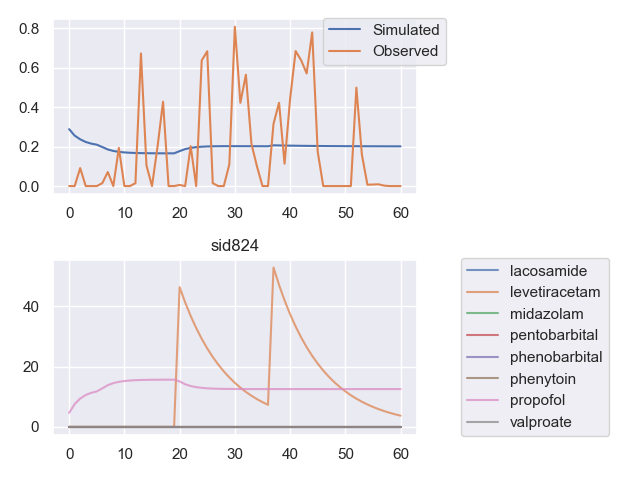
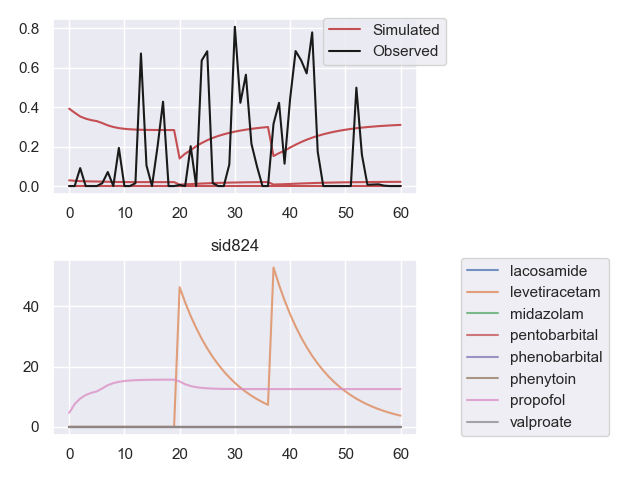
kind of finish pymc3 implementation

diff --git a/aim1/simulator/pkpd_simulator_probablistic_model.py b/aim1/simulator/pkpd_simulator_probablistic_model.py
@@ -104,7 +104,7 @@ class IICSimulatorCarryForward(object):
         assert len(D)==len(C)
         Ebaseline = []
         for i in range(len(E)):
-            ee = np.r_[E[i][:self.carry_start_step], np.repeat(E[i][[self.carry_start_step-1]], len(E[i])-self.carry_start_step, axis=0)]
+            ee = np.r_[E[i][:self.carry_start_step], np.repeat(E[i][[self.carry_start_step-1]], len(D[i])-self.carry_start_step, axis=0)]
             Ebaseline.append(ee)
         return Ebaseline
 
@@ -118,7 +118,7 @@ def pharmacodynamics(a0,a1,a2,betaA,b0,b,betaB,D,C, return_P=False):
         log_Pts.append([])
         log_1_Pts.append([])
         logit_Pt = []
-        for t in range(D[i].shape[1]):
+        for t in range(len(D[i])):
             if t==0:
                 logit_Pt_1 = 0
                 logit_Pt_2 = 0
@@ -129,7 +129,7 @@ def pharmacodynamics(a0,a1,a2,betaA,b0,b,betaB,D,C, return_P=False):
                 logit_Pt_1 = logit_Pt[t-1]
                 logit_Pt_2 = logit_Pt[t-2]
             At = a0 + a1*logit_Pt_1 + a2*logit_Pt_2 + np.dot(betaA, C[i])
-            Bt = b0 + np.dot(b, D[i][:,t]) + np.dot(betaB, C[i])
+            Bt = b0 + np.dot(b, D[i][t]) + np.dot(betaB, C[i])
             log_Pt = logsigmoid_numpy(At) + logsigmoid_numpy(-Bt)
             log_1_Pt = log1mexp_numpy(log_Pt)
             logit_Pt.append(log_Pt - log_1_Pt)
@@ -198,63 +198,13 @@ class IICSimulatorBayesian(object):
     
     def fit(self, E, D, C):
         assert len(E)==len(D)==len(C)
-        N = len(E)
-        ND = D[0].shape[1]
-        NC = C.shape[1]
         
         # pad to have the same length
         assert [len(x) for x in E]==[len(x) for x in D]
         Ts = np.array([len(x) for x in D])
         self.maxlen = max(Ts)
-        #E2 = np.array([np.r_[E[i], np.zeros(self.maxlen-len(E[i]))+np.nan] for i in range(len(E))])
+        E2 = np.array([np.r_[E[i], np.zeros(self.maxlen-len(E[i]))+np.nan] for i in range(len(E))])
         D2 = np.array([np.r_[D[i], np.zeros((self.maxlen-len(D[i]), D[i].shape[1]))+np.nan] for i in range(len(D))])
-        
-        self.stan_model = """
-data {
-    int<lower=0> N;
-    int<lower=0> T;
-    int<lower=0> ND;
-    int<lower=0> NC;
-    matrix[N,T] E;
-    matrix[T,ND] D[N]
-}
-
-parameters {
-    real a0;
-    real a1;
-    real a2;
-    vector[NC] betaA;
-    
-    real b0;
-    vector[ND] b;
-    vector[NC] betaB;
-    
-    real theta_u;
-    real theta_l;
-    real p1_s;
-    real p2_s;
-}
-
-transformed parameters {
-    vector[T] p;
-    vector[T] A;
-    vector[T] B;
-    p[1] = p1_s;
-    p[2] = p2_s;
-    for (t in 3:T) {
-        A[t] = a0 + a1*p[t-1] + a2*p[t-2] + betaA;
-        B[t] = b0 + dot_product(b,col(D,t));
-        p[t] = (1/(1+exp(-1*A[t])))*(1 - (1/(1+exp(-1*B[t]))));
-    }
-}
-
-model {
-    p1_s ~ uniform(theta_l,theta_u);
-    p2_s ~ uniform(theta_l,theta_u);
-    for (t in 1:T) {
-        E[t] ~ bernoulli(p[t]);
-    }   
-}"""
         
         #theano.config.mode = 'FAST_COMPILE'
         #theano.config.allow_gc = False
@@ -262,11 +212,16 @@ model {
         np.random.seed(self.random_state)
         random_seed = [np.random.randint(low=0,high=100000) for _ in range(self.n_jobs)]
         
+        self.E_shared = theano.shared(E2)
         self.D_shared = theano.shared(D2)
         self.Ts_shared = theano.shared(Ts)
         self.C_shared = theano.shared(C)
         with pm.Model() as self.model:
             # define paramters
+            N = len(self.E_shared.get_value())
+            ND = self.D_shared.get_value().shape[-1]
+            NC = self.C_shared.get_value().shape[-1]
+            
             a0 = pm.Normal('a0', mu=0, sigma=1)
             a1 = pm.HalfNormal('a1', sigma=1)
             a2 = pm.HalfNormal('a2', sigma=1)
@@ -278,10 +233,12 @@ model {
             
             # forward
             Ep = []
+            Eobs = []
             #log_Pts = []
             #log_1_Pts = []
             for i in range(N):
                 Ep.append([])
+                Eobs.append([])
                 #log_Pts.append([])
                 #log_1_Pts.append([])
                 logit_Pt = []
@@ -301,28 +258,40 @@ model {
                     log_1_Pt = log1mexp_theano(log_Pt)
                     logit_Pt.append(log_Pt - log_1_Pt)
                     Ep[i].append(tt.exp(log_Pt))
+                    Eobs[i].append(self.E_shared[i][t])
                     #log_Pts[i].append(log_Pt)
                     #log_1_Pts[i].append(log_1_Pt)
                   
             # generate sample weights which is inverse proportional to T
-            weights = np.concatenate([[1./Ts[i]]*Ts[i] for i in range(len(Ts))])
+            Ts = self.Ts_shared.get_value()
+            weights = tt.concatenate([[1./Ts[i]]*Ts[i] for i in range(len(Ts))])
             weights = weights/weights.mean()
             
             self.W = 100
             eps = 1e-6
-            Eobs = np.round(np.concatenate(E)*self.W).astype(int)
             Ep = tt.concatenate(Ep)
             Ep = pm.Deterministic('Ep', tt.clip(Ep, eps, 1-eps))
+            Eobs = tt.round((tt.concatenate(Eobs)*self.W)).astype('int64')
             self.potential = pm.Potential('weighted_ll', weights * pm.Binomial.dist(n=self.W, p=Ep).logp(Eobs))
              
             #step = pm.NUTS(potential=self.potential)
             self.trace = pm.sample(self.max_iter, tune=self.max_iter//2, cores=self.n_jobs, random_seed=random_seed)#, step=step)
-            import pdb;pdb.set_trace()
-            aa=1
+        
+            self.var_names = ['a0', 'a1', 'a2', 'betaA', 'b0', 'b', 'betaB']
+            self.Nsample = 1000
+            pred = pm.sample_posterior_predictive(self.trace, samples=self.Nsample, var_names=self.var_names)
+            
+            for vn in self.var_names:
+                setattr(self, vn, np.mean(pred[vn], axis=0))
+                setattr(self, vn+'_posterior', pred[vn])
+                setattr(self, vn+'_lb', np.percentile(pred[vn], 2.5, axis=0))
+                setattr(self, vn+'_ub', np.percentile(pred[vn], 97.5, axis=0))
             
         return self
     
-    def predict(self, D, C):
+    def predict(self, D, C, verbose=True):
+        #TODO model_factory
+        """
         D2 = []
         Ts = []
         for i in range(len(D)):
@@ -333,29 +302,38 @@ model {
                 D2.append(D[i][:self.maxlen])
                 Ts.append(self.maxlen)
         self.D_shared.set_value(np.array(D2))
+        self.E_shared.set_value(np.zeros((len(D2), self.maxlen)))
         self.Ts_shared.set_value(np.array(Ts))
         self.C_shared.set_value(C)
-        
-        with self.model:
-            pred = pm.sample_posterior_predictive(self.trace, samples=500)
+        """
+        Ep = []
+        for i in tqdm(range(self.Nsample), disable=not verbose):
+            a0 = self.a0_posterior[i]
+            a1 = self.a1_posterior[i]
+            a2 = self.a2_posterior[i]
+            betaA = self.betaA_posterior[i]
+            b0 = self.b0_posterior[i]
+            b = self.b_posterior[i]
+            betaB = self.betaB_posterior[i]
             
-        return pred['Ep']
+            Ep.append(pharmacodynamics(a0,a1,a2,betaA,b0,b,betaB,D,C))
+        return np.array(Ep)
 
 
 def plot_sim(E, Eobs, d_conc, sid):
     plt.close()
     fig,ax = plt.subplots(2,1)
     plt.title(sid)
-    ax[0].plot(E)
-    ax[0].plot(Eobs)
-    # ax[0].plot(Erandom)
+    ax[0].plot(E[:,0], color='r', label='Simulated')
+    ax[0].plot(E[:,1], color='r')
+    ax[0].plot(E[:,2], color='r')
+    ax[0].plot(Eobs, color='k', label='Observed')
     # ax[0].plot(Enoise)
-    # ax[0].plot(Eobs,'--',alpha=0.3,)
     # ax[0].fill_between(np.arange(T),y1=E+2*params[-1],y2=E-2*params[-1],alpha=0.15)
+    ax[0].legend(bbox_to_anchor=(1.1, 1.05))
 
-    ax[1].plot(d_conc.T,alpha=0.75)
-    ax[0].legend(['Simulated','Observed'],bbox_to_anchor=(1.1, 1.05))
-    ax[1].legend(halflife.columns,bbox_to_anchor=(1.1, 1.05))
+    ax[1].plot(d_conc,alpha=0.75)
+    ax[1].legend(halflife.columns, bbox_to_anchor=(1.1, 1.05))
     plt.tight_layout()
     fig.savefig('figures/'+sid+'.png')
 
@@ -373,9 +351,6 @@ def learn_all(patients, C):
                   'propofol', 'valproate']].fillna(0).to_numpy().T
         D.append(drug_concentration(Ddose,k)[:,:len(E[-1])].T)
         sids.append(os.path.basename(p.sid.iloc[0]))
-    #E = np.array(E)
-    #D = np.array(D)
-    #sids = np.array(sids)
     
     Esims = []
     Ebaselines = []
@@ -386,8 +361,8 @@ def learn_all(patients, C):
         #Leave one out procedure
         sid = sids[pti]
         
-        Etr = [E[x][:20] for x in range(len(sids)) if sids[x]!=sid]
-        Dtr = [D[x][:20] for x in range(len(sids)) if sids[x]!=sid]
+        Etr = [E[x] for x in range(len(sids)) if sids[x]!=sid]
+        Dtr = [D[x] for x in range(len(sids)) if sids[x]!=sid]
         Ctr = np.array([C[x] for x in range(len(sids)) if sids[x]!=sid])
         Ete = E[sids.index(sid)]
         Dte = D[sids.index(sid)]
@@ -398,16 +373,21 @@ def learn_all(patients, C):
         Ctr = (Ctr-Cmean)/Cstd
         Cte = (Cte-Cmean)/Cstd
         
-        #fit simulator
-        #model = IICSimulatorMLE()
-        model = IICSimulatorBayesian(max_iter=50, n_jobs=8, random_state=random_state)
-        model.fit(Etr, Dtr, Ctr)
-        Esim = model.predict([Dte], Cte)[0]
-        
         # get baseline prediction
         model = IICSimulatorCarryForward(carry_start_step=2)
         model.fit(Etr, Dtr, Ctr)
         Ebaseline = model.predict([Ete[:2]], [Dte], Cte)[0]
+        
+        #fit simulator
+        #model = IICSimulatorMLE()
+        model = IICSimulatorBayesian(max_iter=1000, n_jobs=12, random_state=random_state)
+        model.fit(Etr, Dtr, Ctr)
+        Esim_posterior = model.predict([Dte], Cte)
+        Esim = np.mean(Esim_posterior, axis=0)[0]
+        Esim_lb, Esim_ub = np.percentile(Esim_posterior, (2.5,97.5), axis=0)
+        Esim_lb = Esim_lb[0]
+        Esim_ub = Esim_ub[0]
+        Esim = np.c_[Esim, Esim_lb, Esim_ub]
         
         #Plot
         plot_sim(Esim, Ete, Dte, sid)
@@ -415,10 +395,10 @@ def learn_all(patients, C):
         Esims.append(Esim)
         Ebaselines.append(Ebaseline)
         trained_sid.append(sid)
-        params.append(opt_res.x)
-        loss_array.append(opt_res.func)
+        #params.append(opt_res.x)
+        #loss_array.append(opt_res.func)
             
-    return Esims, trained_sid, params, loss_array
+    return Esims, Ebaselines, trained_sid#, params, loss_array
 
 
 if __name__=='__main__':
@@ -438,14 +418,14 @@ if __name__=='__main__':
     """
     with open('input_data.pickle', 'rb') as ff:
         patients, sids = pickle.load(ff)
-    patients = patients[:20]
-    sids = sids[:20]
+    #patients = patients[:20]
+    #sids = sids[:20]
     
     Cnames = ['Age', 'Hx CVA (including TIA)',
         'Hx Sz /epilepsy', 
         'SZ at presentation,(exclude non-convulsive seizures) just if it is mentioned in MGH notes (the date is necessary, however,the date is the day of admission at MGH)',
         'neuro_dx_Seizures/status epilepticus']
-    
+        
     cov = pd.read_csv('/data/Dropbox (Partners HealthCare)/CausalModeling_IIIC/data_to_share/step1_output/covariates.csv')
     cov_sids = list(cov.Index)
     ids = [cov_sids.index(x) for x in sids]
@@ -455,5 +435,5 @@ if __name__=='__main__':
     C = cov.values.astype(float)
     #C = C[:,np.nanstd(C, axis=0)>0.1]
     C = KNNImputer(n_neighbors=10).fit_transform(C)
-    Esims, trained_sid, params_learned, loss_array = learn_all(patients, C)
+    Esims, Ebaselines, trained_sid = learn_all(patients, C)
 
